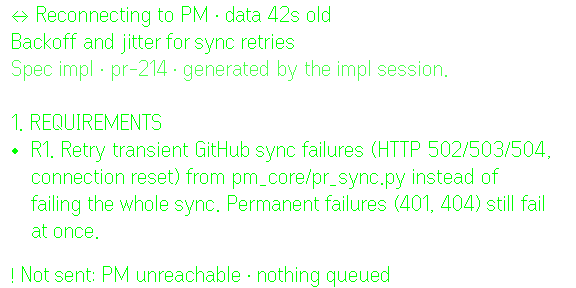
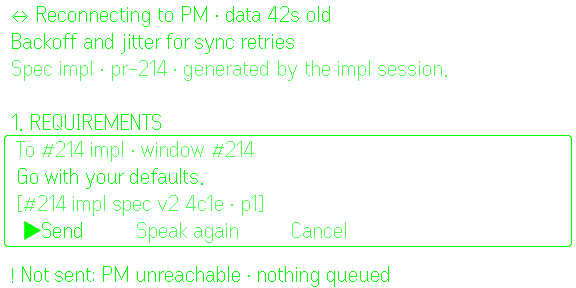
review-loop 450f i19: a voice message refused while PM is unreachable (or its session gone) was dropped on glasses although the phone keeps refused typed text — the review panel now keeps it for an explicit Send after reconnect (still never queued or resent); check.mjs +rule (fails on old code); rec

Changed region(s): [[0.0, 0.5938, 1.0, 0.875], [0.0, 0.4688, 1.0, 0.5625], [0.4688, 0.5938, 0.875, 0.6562]]

diff --git a/pm/docs/even-realities/index.html b/pm/docs/even-realities/index.html
@@ -39,7 +39,7 @@
     <li><a href="pageborne-snapshot.md">Pageborne snapshot provenance</a></li>
     <li><a href="mockup/README.md">Run the mockup</a></li>
   </ul>
-  <p class="note"><b>What is simulated.</b> All PM state, agent replies, document revisions, connection changes and speech recognition are SIMULATED by the mockup. Inputs are real simulator touchpad actions. Each image is the simulator's 576×288 glasses framebuffer, shown at 2× on black with a caption strip; follow "raw" for the original PNG. Captured 2026-10-22 14:46 UTC with @evenrealities/evenhub-simulator 0.9.5, @evenrealities/even_hub_sdk 0.0.16 and @evenrealities/pretext 0.1.4 on linux-arm64. The simulator does not model firmware timing, Bluetooth or phone lifecycles; no constraint or SDK errors were logged during capture.</p>
+  <p class="note"><b>What is simulated.</b> All PM state, agent replies, document revisions, connection changes and speech recognition are SIMULATED by the mockup. Inputs are real simulator touchpad actions. Each image is the simulator's 576×288 glasses framebuffer, shown at 2× on black with a caption strip; follow "raw" for the original PNG. Captured 2026-10-22 16:04 UTC with @evenrealities/evenhub-simulator 0.9.5, @evenrealities/even_hub_sdk 0.0.16 and @evenrealities/pretext 0.1.4 on linux-arm64. The simulator does not model firmware timing, Bluetooth or phone lifecycles; no constraint or SDK errors were logged during capture.</p>
   <h2 id="journey-A">A. Read a spec, discuss it in its session, revise, approve, hand back to PM</h2>
   <div class="grid">
   <figure id="A01-needs-you">
@@ -570,8 +570,8 @@
     <figcaption>
       <b>C09</b> Actions fail visibly
       <span class="tag">SIMULATED PM</span>
-      <p>A send while disconnected is refused and not queued, so nothing goes out later by surprise.</p>
-      <p class="meta">scene <code>doc:spec:pr-214:impl</code> · <a href="screenshots/raw/C09-not-sent-offline.png">raw 576×288</a></p>
+      <p>A send while disconnected is refused and not queued, so nothing goes out later by surprise. The dictated text stays in the review panel.</p>
+      <p class="meta">scene <code>doc:spec:pr-214:impl:review</code> · <a href="screenshots/raw/C09-not-sent-offline.png">raw 576×288</a></p>
       <details><summary>4 steps before this shot</summary><p class="steps"><code class="sim">SIMULATED speech result queued</code> <code class="">long_press</code> <code class="">long_press_release</code> <code class="">click</code></p></details>
       
     </figcaption>
@@ -581,8 +581,8 @@
     <figcaption>
       <b>C10</b> Reconnected in place
       <span class="tag">SIMULATED PM</span>
-      <p>Same document and page; nothing was resent.</p>
-      <p class="meta">scene <code>doc:spec:pr-214:impl</code> · <a href="screenshots/raw/C10-reconnected.png">raw 576×288</a></p>
+      <p>Same document and page. Nothing was resent: the kept message waits for an explicit Send.</p>
+      <p class="meta">scene <code>doc:spec:pr-214:impl:review</code> · <a href="screenshots/raw/C10-reconnected.png">raw 576×288</a></p>
       <details><summary>1 step before this shot</summary><p class="steps"><code class="sim">SIMULATED pm:reconnect</code></p></details>
       
     </figcaption>

diff --git a/pm/docs/even-realities/mockup/src/app.js b/pm/docs/even-realities/mockup/src/app.js
@@ -608,8 +608,10 @@ export class App {
     const ctx = this.contextFor(o.target);
     const text = o.purpose === 'changes' ? `Please revise: ${o.text}` : o.text;
     const r = this.pm.send(o.target.session, text, ctx);
-    this.overlay = null;
+    // A refused message stays in the review panel, as typed text stays on the
+    // phone: nothing is queued, and the user sends it again, re-speaks or cancels.
     if (!r.ok) return this.fail(r);
+    this.overlay = null;
     const s = this.pm.session(o.target.session);
     this.say(r.queued ? `Queued in ${this.sessionName(s)} (${s.state === 'starting' ? 'starting' : 'busy'}) · same session` : `Sent to ${this.sessionName(s)} · ${GLYPH.idle} waiting for reply`);
   }

diff --git a/pm/docs/even-realities/proposal.md b/pm/docs/even-realities/proposal.md
@@ -60,8 +60,8 @@ Everything the PM actions panel and its related windows expose is reachable. See
 | Feedback is in place: a one-line notice in the footer, state glyphs, and a banner row for document or connection state. Replies never switch the view. | A06, B08 |
 | Messages are reviewed before sending and sent at most once. Busy sessions queue in place. | A05, B07, B08 |
 | Connection loss shows "↔ Reconnecting to PM · data N old" after repeated failures. Reading continues from the local copy. | C08 |
-| Actions while disconnected are refused, not queued for later ("Not sent: PM unreachable · nothing queued"). | C09 |
-| Reconnect restores the same place and resends nothing. | C10 |
+| Actions while disconnected are refused, not queued for later ("Not sent: PM unreachable · nothing queued"). A refused message keeps its text (in the glasses review panel, in the phone's compose box) for the user to send again. | C09 |
+| Reconnect restores the same place and resends nothing; a kept message goes out only when the user chooses Send. | C10 |
 | Starting is shown as in progress ("◐ starting…") and repeated taps do not duplicate it. | B17, B18 |
 | Root back hands off to the system exit dialog, as Even requires. | C11 |
 
